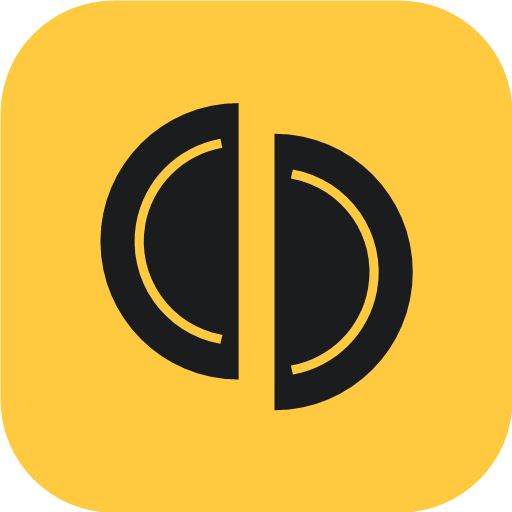
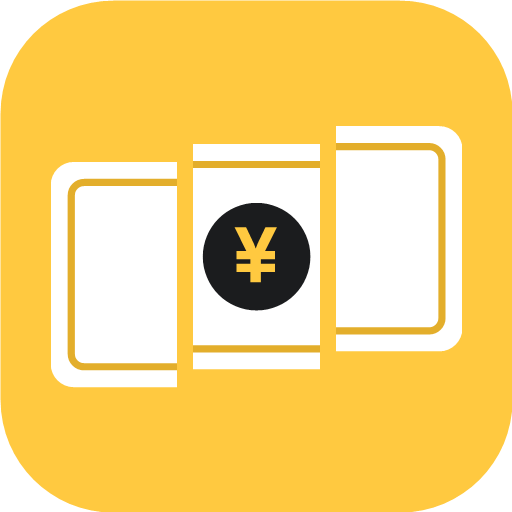
アイコンを「3等分したお札」に変更（v1.1.1）
お札（真ん中に¥）を3枚に等しく切り分けた形にして、お金を等分する感じが伝わるようにした。

diff --git a/src/config.js b/src/config.js
@@ -4,4 +4,4 @@ export const SUPABASE_KEY = 'sb_publishable_-sNQxpwsU7JxhPF9S2vn5A_-CCTqQZL';
 export const FN_URL = SUPABASE_URL + '/functions/v1/tabiwari';
 // 共有リンクの行き先（ローカルで動かしているときも、友だちには公開版のリンクを渡す）
 export const PUBLIC_URL = 'https://neitianguang209-oss.github.io/tabiwari/';
-export const APP_VERSION = '1.1.0';
+export const APP_VERSION = '1.1.1';

diff --git a/sw.js b/sw.js
@@ -1,6 +1,6 @@
 // たびわり Service Worker（オフラインでもアプリを開けるように）
 // アプリを更新して公開するたびに CACHE_NAME の番号を上げること（上げないと古い画面が出続ける）
-const CACHE_NAME = 'tabiwari-v2';
+const CACHE_NAME = 'tabiwari-v3';
 const APP_SHELL = [
   './',
   './index.html',
